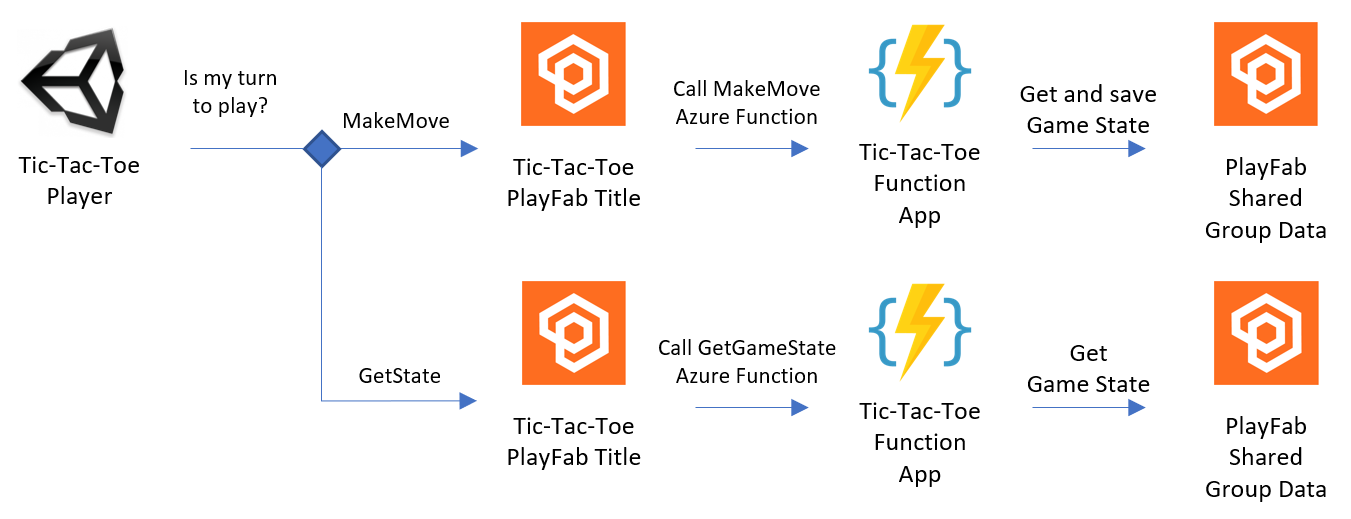
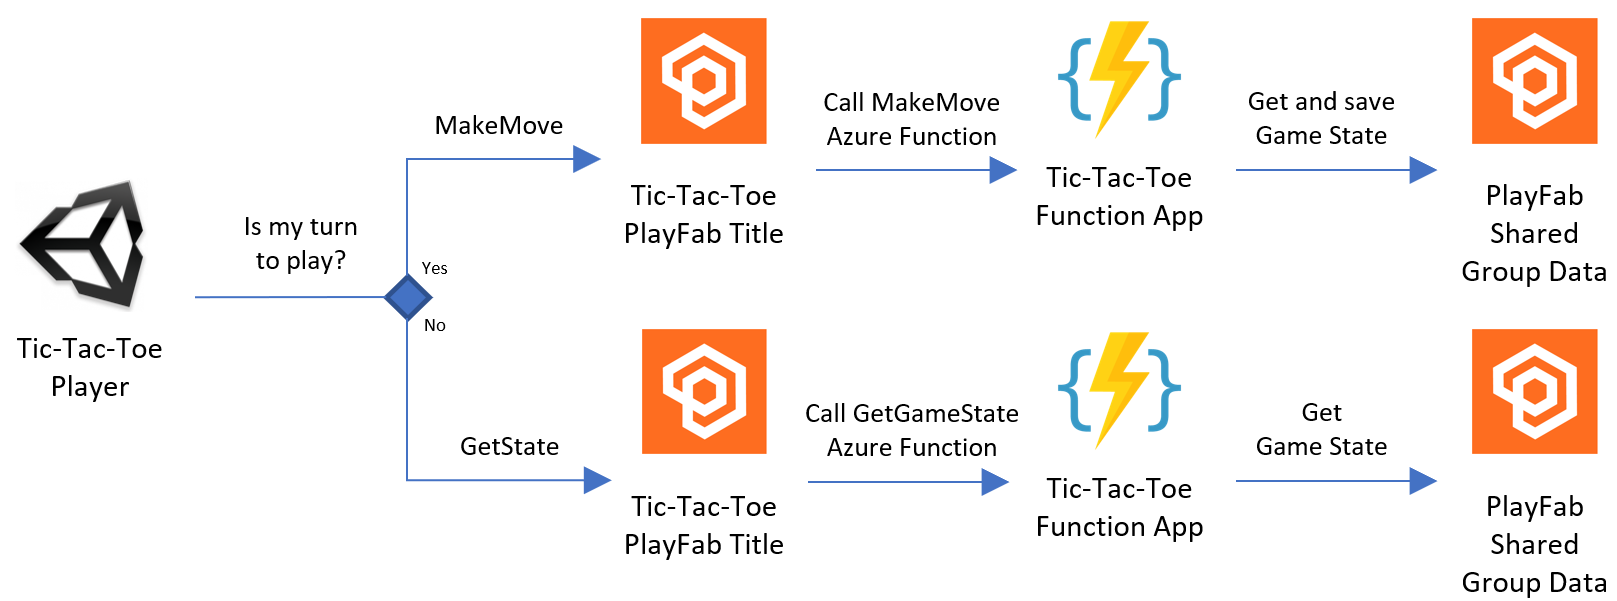
[Multiplayer Tic-Tac-Toe] Applies feedback (#2)
* Added polling disclaimer

* Normalize images

* Removes border from search flow diagram

* Updated diagrams

diff --git a/multiplayer-tic-tac-toe/game-flow.md b/multiplayer-tic-tac-toe/game-flow.md
@@ -57,6 +57,8 @@ All the Game Flow logic is implemented in the [Game][game-class-file] file. The 
     1. ***Get Game Status***: here we call the [GetGameStatus][game-class-file-get-game-status] method, which uses the [Get][game-status-handler-get] method from the [GameStatusHandler][game-status-handler] for retrieving the current Game State information, which will be used in further steps. Here we also call the [CheckForWinner][game-class-file-check-for-winner] method, which uses the retrieved Game State information for checking if the latest player move is an end game move or not. In case it is, the game will conclude.
     1. ***Make Move***: after checking if it's the current player's turn (check it [here][game-class-file-my-turn]), we run the [MakeMove][game-class-make-move] method, which request the player to perform a move in the Tic-Tac-Toe board and sends it to the [MakeMultiplayerMove][make-multiplayer-move-azf] Azure Function for storing it in the Game State. For this, it uses the [MakeMove][game-status-handler-make-move] method from the [GameStatusHandler][game-status-handler] class.
 
+> **Note**: Polling state of the game from the SGD is **not recommended for production**, as it could end up being too expensive.
+
 ### Azure Function: Start Match
 
 The [StartMatch][start-match-azf] Azure Function initializes the Game Status data (a representation of the Tic-Tac-Toe board, with the respective players moves), and stores it in a PlayFab Shared Group. This is an important step in our flow as this data (and the related Shared Group) will be used throughout the current game (i.e.: if the game is concluded or cancelled, the data will be deleted), allowing us to share the different moves and states between both players.

diff --git a/multiplayer-tic-tac-toe/README.md b/multiplayer-tic-tac-toe/README.md
@@ -59,13 +59,15 @@ Our automatic matchmaking (*Quick Match*) takes advantage of [PlayFab's Matchmak
 
 - P1 issues a matchmaking ticket to PlayFab's Matchmaking feature.
   - P1 keeps polling the ticket state until finding a match.
-- P2 Two issues a matchmaking ticket to PlayFab's Matchmaking feature.
+- P2 issues a matchmaking ticket to PlayFab's Matchmaking feature.
   - P2 keeps polling the ticket state until finding a match.
 - PlayFab matches P1 and P2 together.
 - P1 starts a flow to trigger the SGD, using the following id: “{playerOneId}-{playerTwoId}”.
 - P2 starts a flow to join to the SGD, using the same id as the P1: “{playerOneId}-{playerTwoId}”.
   - If P2 fails to join to the SGD, it will keep retrying in case the requests were sent before SGD is created.
 - Once both players are part of the SGD, the game will start.
+
+> **Note**: Polling state of the game from the SGD is **not recommended for production**, as it could end up being too expensive.
 
 ### Game flow and matchmaking detailed documentation
 

diff --git a/multiplayer-tic-tac-toe/start-match.md b/multiplayer-tic-tac-toe/start-match.md
@@ -54,6 +54,8 @@ Each player will keep [polling][start-match-polling] the game state until:
 - **The player cancels matchmaking**.
 - **The user fails to get the match data**. In this case the shared group data gets deleted in any case.
 
+> **Note**: Polling state of the game from the SGD is **not recommended for production**, as it could end up being too expensive.
+
 ### Polling result
 
 Finally, the game checks if the game state polling process resulted in the game being able to start or not.
